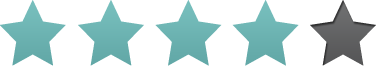
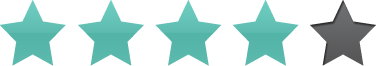
images updates and small css changes

diff --git a/stylesheets/custom.css b/stylesheets/custom.css
@@ -67,7 +67,7 @@ padding: .3em .3em;
 /*don't hightlight selected list items ever */
 .x-list .x-list-item, .x-list .x-list-item.x-item-selected {
   border-top: solid 1px #CCC;
-  background-image: -webkit-gradient(linear, 50% 0%, 50% 100%, color-stop(0%, white), color-stop(100%, #F1F1F1));
+  background-image: -webkit-gradient(linear, left top, left bottom, color-stop(0%,#ffffff), color-stop(45%,#ffffff), color-stop(100%,#f1f1f1));
   color: black;
 }
 
@@ -242,8 +242,8 @@ FORM.framePanel .x-form-field-container {
   float: left;
   position: relative;
   top: -8px;
-  height: 32px;
-  max-width: 32px;
+  height: 24px;
+  max-width: 24px;
   margin-right: 6px;
 }
 
